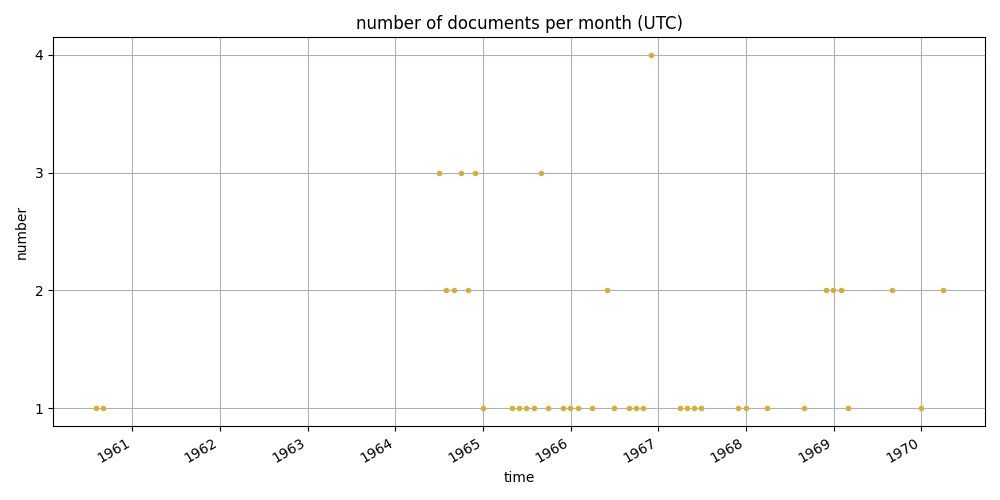
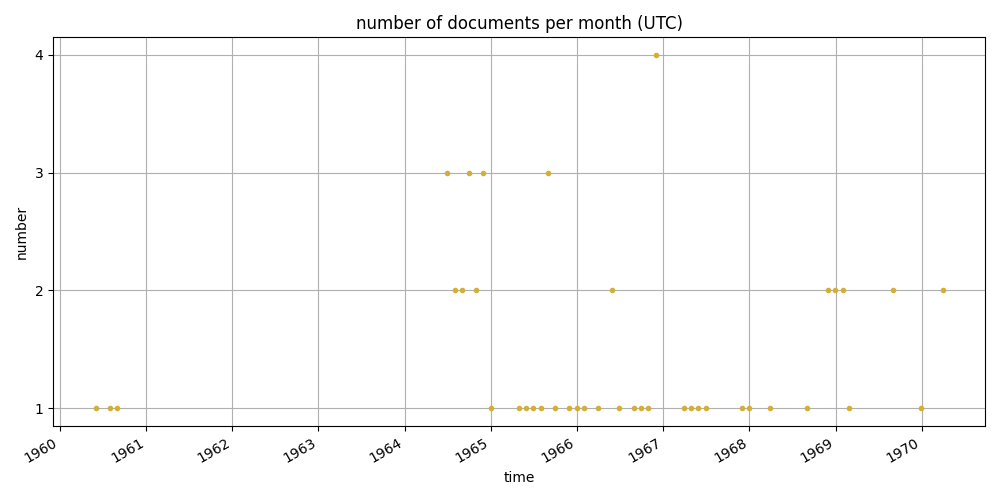
output csv written

diff --git a/metadata/md/metadata-analysis.md b/metadata/md/metadata-analysis.md
@@ -25,97 +25,98 @@ dtype: int64
 ### `df.info()`
 ```
 <class 'pandas.core.frame.DataFrame'>
-RangeIndex: 236 entries, 0 to 235
+RangeIndex: 238 entries, 0 to 237
 Data columns (total 19 columns):
  #   Column          Non-Null Count  Dtype 
 ---  ------          --------------  ----- 
- 0   img             236 non-null    int64 
- 1   lrx             236 non-null    int64 
- 2   lry             236 non-null    int64 
- 3   width           236 non-null    int64 
- 4   height          236 non-null    int64 
- 5   type            236 non-null    object
- 6   ed              236 non-null    object
- 7   doc             236 non-null    object
- 8   title           236 non-null    object
- 9   author          236 non-null    object
- 10  author-uri      236 non-null    object
- 11  notBefore-iso   236 non-null    object
- 12  notAfter-iso    236 non-null    object
- 13  place           236 non-null    object
- 14  place-uri       236 non-null    object
- 15  repository      236 non-null    object
- 16  repository-uri  236 non-null    object
- 17  collection      236 non-null    object
- 18  idno            236 non-null    object
+ 0   img             238 non-null    int64 
+ 1   lrx             238 non-null    int64 
+ 2   lry             238 non-null    int64 
+ 3   width           238 non-null    int64 
+ 4   height          238 non-null    int64 
+ 5   type            238 non-null    object
+ 6   ed              238 non-null    object
+ 7   doc             238 non-null    object
+ 8   title           238 non-null    object
+ 9   author          238 non-null    object
+ 10  author-uri      238 non-null    object
+ 11  notBefore-iso   238 non-null    object
+ 12  notAfter-iso    238 non-null    object
+ 13  place           238 non-null    object
+ 14  place-uri       238 non-null    object
+ 15  repository      238 non-null    object
+ 16  repository-uri  238 non-null    object
+ 17  collection      238 non-null    object
+ 18  idno            238 non-null    object
 dtypes: int64(5), object(14)
-memory usage: 35.2+ KB
+memory usage: 35.5+ KB
 
 ```
 ### cleaned document data
 ```
-            author                                                                     title          place
-doc                                                                                                        
-0001  Auden, W. H.  Autograph Letter Signed W. H. Auden to Hugo Kurka 1960-07-25--1969-07-25   Kirchstetten
-0002  Auden, W. H.              Autograph Letter Signed W. H. Auden to Hugo Kurka 1964-09-08   Kirchstetten
-0003  Auden, W. H.              Autograph Letter Signed W. H. Auden to Hugo Kurka 1965-05-24   Kirchstetten
-0004  Auden, W. H.              Autograph Letter Signed W. H. Auden to Hugo Kurka 1964-10-07   Kirchstetten
-0005  Auden, W. H.              Autograph Letter Signed W. H. Auden to Hugo Kurka 1967-05-09   Kirchstetten
-0006  Auden, W. H.              Autograph Letter Signed W. H. Auden to Hugo Kurka 1967-06-05   Kirchstetten
-0007  Auden, W. H.              Autograph Letter Signed W. H. Auden to Hugo Kurka 1965-07-28   Kirchstetten
-0008  Auden, W. H.              Autograph Letter Signed W. H. Auden to Hugo Kurka 1965-04-16         Berlin
-0009  Auden, W. H.              Autograph Letter Signed W. H. Auden to Hugo Kurka 1966-06-29   Kirchstetten
-0010  Auden, W. H.           Autograph Letter Signed W. H. Auden to Christa Kurka 1969-08-27   Kirchstetten
-0011  Auden, W. H.              Autograph Letter Signed W. H. Auden to Hugo Kurka 1965-06-27   Kirchstetten
-0012  Auden, W. H.              Autograph Letter Signed W. H. Auden to Hugo Kurka 1964-11-08         Berlin
-0013  Auden, W. H.              Autograph Letter Signed W. H. Auden to Hugo Kurka 1969-08-20   Kirchstetten
-0014  Auden, W. H.              Autograph Letter Signed W. H. Auden to Hugo Kurka 1964-12-08         Berlin
-0015  Auden, W. H.              Autograph Letter Signed W. H. Auden to Hugo Kurka 1964-06-25   Kirchstetten
-0016  Auden, W. H.              Autograph Letter Signed W. H. Auden to Hugo Kurka 1968-08-26   Kirchstetten
-0017  Auden, W. H.              Autograph Letter Signed W. H. Auden to Hugo Kurka 1965-08-16   Kirchstetten
-0018  Auden, W. H.              Autograph Letter Signed W. H. Auden to Hugo Kurka 1964-06-19   Kirchstetten
-0019  Auden, W. H.              Autograph Letter Signed W. H. Auden to Hugo Kurka 1966-05-04   Kirchstetten
-0020  Auden, W. H.              Autograph Letter Signed W. H. Auden to Hugo Kurka 1965-08-04   Kirchstetten
-0021  Auden, W. H.              Autograph Letter Signed W. H. Auden to Hugo Kurka 1964-09-16   Kirchstetten
-0022  Auden, W. H.              Autograph Letter Signed W. H. Auden to Hugo Kurka 1964-09-28   Kirchstetten
-0023  Auden, W. H.              Autograph Letter Signed W. H. Auden to Hugo Kurka 1966-05-20   Kirchstetten
-0024  Auden, W. H.           Autograph Letter Signed W. H. Auden to Christa Kurka 1964-11-23         Berlin
-0025  Auden, W. H.              Autograph Letter Signed W. H. Auden to Hugo Kurka 1964-07-08   Kirchstetten
-0026  Auden, W. H.              Autograph Letter Signed W. H. Auden to Hugo Kurka 1966-08-16   Kirchstetten
-0027  Auden, W. H.              Autograph Letter Signed W. H. Auden to Hugo Kurka 1964-08-21   Kirchstetten
-0028  Auden, W. H.              Autograph Letter Signed W. H. Auden to Hugo Kurka 1964-11-01         Berlin
-0029  Auden, W. H.              Autograph Letter Signed W. H. Auden to Hugo Kurka 1964-07-12   Kirchstetten
-0030  Auden, W. H.  Autograph Letter Signed W. H. Auden to Hugo Kurka 1960-08-29--1968-07-29   Kirchstetten
-0031  Auden, W. H.              Autograph Letter Signed W. H. Auden to Hugo Kurka 1965-09-23   Kirchstetten
-0032  Auden, W. H.              Autograph Letter Signed W. H. Auden to Hugo Kurka 1964-08-18   Kirchstetten
-0033  Auden, W. H.              Autograph Letter Signed W. H. Auden to Hugo Kurka 1966-01-27  New York City
-0034  Auden, W. H.              Autograph Letter Signed W. H. Auden to Hugo Kurka 1967-03-28  New York City
-0035  Auden, W. H.              Autograph Letter Signed W. H. Auden to Hugo Kurka 1965-12-07  New York City
-0036  Auden, W. H.              Autograph Letter Signed W. H. Auden to Hugo Kurka 1965-11-11  New York City
-0037  Auden, W. H.              Autograph Letter Signed W. H. Auden to Hugo Kurka 1964-11-16         Berlin
-0038  Auden, W. H.              Autograph Letter Signed W. H. Auden to Hugo Kurka 1966-11-07  New York City
-0039  Auden, W. H.              Autograph Letter Signed W. H. Auden to Hugo Kurka 1966-11-26  New York City
-0040  Auden, W. H.              Autograph Letter Signed W. H. Auden to Hugo Kurka 1966-11-14  New York City
-0041  Auden, W. H.              Autograph Letter Signed W. H. Auden to Hugo Kurka 1967-04-05  New York City
-0042  Auden, W. H.              Autograph Letter Signed W. H. Auden to Hugo Kurka 1966-11-09  New York City
-0043  Auden, W. H.              Autograph Letter Signed W. H. Auden to Hugo Kurka 1964-06-10   Kirchstetten
-0044  Auden, W. H.              Autograph Letter Signed W. H. Auden to Hugo Kurka 1965-08-30   Kirchstetten
-0045  Auden, W. H.              Autograph Letter Signed W. H. Auden to Hugo Kurka 1966-03-01  New York City
-0046  Auden, W. H.              Autograph Letter Signed W. H. Auden to Hugo Kurka 1970-03-27  New York City
-0047  Auden, W. H.              Autograph Letter Signed W. H. Auden to Hugo Kurka 1966-09-14   Kirchstetten
-0048  Auden, W. H.              Autograph Letter Signed W. H. Auden to Hugo Kurka 1967-12-24  New York City
-0049  Auden, W. H.                  Typed Letter Signed W. H. Auden to Hugo Kurka 1968-03-28  New York City
-0050  Auden, W. H.              Autograph Letter Signed W. H. Auden to Hugo Kurka 1969-01-29  New York City
-0051  Auden, W. H.              Autograph Letter Signed W. H. Auden to Hugo Kurka 1969-12-05  New York City
-0052  Auden, W. H.              Autograph Letter Signed W. H. Auden to Hugo Kurka 1968-11-24  New York City
-0053  Auden, W. H.              Autograph Letter Signed W. H. Auden to Hugo Kurka 1966-10-11         London
-0054  Auden, W. H.                  Typed Letter Signed W. H. Auden to Hugo Kurka 1969-01-11  New York City
-0055  Auden, W. H.              Autograph Letter Signed W. H. Auden to Hugo Kurka 1967-11-14  New York City
-0056  Auden, W. H.              Autograph Letter Signed W. H. Auden to Hugo Kurka 1968-12-29  New York City
-0057  Auden, W. H.              Autograph Letter Signed W. H. Auden to Hugo Kurka 1968-11-13  New York City
-0058  Auden, W. H.              Autograph Letter Signed W. H. Auden to Hugo Kurka 1968-12-13  New York City
-0059  Auden, W. H.                             Envelope W. H. Auden to Hugo Kurka 1969-02-21  New York City
-0060  Auden, W. H.              Autograph Letter Signed W. H. Auden to Hugo Kurka 1970-03-15  New York City
+                     author                                                                     title          place
+doc                                                                                                                 
+0001           Auden, W. H.  Autograph Letter Signed W. H. Auden to Hugo Kurka 1960-07-25--1969-07-25   Kirchstetten
+0002           Auden, W. H.              Autograph Letter Signed W. H. Auden to Hugo Kurka 1964-09-08   Kirchstetten
+0003           Auden, W. H.              Autograph Letter Signed W. H. Auden to Hugo Kurka 1965-05-24   Kirchstetten
+0004           Auden, W. H.              Autograph Letter Signed W. H. Auden to Hugo Kurka 1964-10-07   Kirchstetten
+0005           Auden, W. H.              Autograph Letter Signed W. H. Auden to Hugo Kurka 1967-05-09   Kirchstetten
+0006           Auden, W. H.              Autograph Letter Signed W. H. Auden to Hugo Kurka 1967-06-05   Kirchstetten
+0007           Auden, W. H.              Autograph Letter Signed W. H. Auden to Hugo Kurka 1965-07-28   Kirchstetten
+0008           Auden, W. H.              Autograph Letter Signed W. H. Auden to Hugo Kurka 1965-04-16         Berlin
+0009           Auden, W. H.              Autograph Letter Signed W. H. Auden to Hugo Kurka 1966-06-29   Kirchstetten
+0010           Auden, W. H.           Autograph Letter Signed W. H. Auden to Christa Kurka 1969-08-27   Kirchstetten
+0011           Auden, W. H.              Autograph Letter Signed W. H. Auden to Hugo Kurka 1965-06-27   Kirchstetten
+0012           Auden, W. H.              Autograph Letter Signed W. H. Auden to Hugo Kurka 1964-11-08         Berlin
+0013           Auden, W. H.              Autograph Letter Signed W. H. Auden to Hugo Kurka 1969-08-20   Kirchstetten
+0014           Auden, W. H.              Autograph Letter Signed W. H. Auden to Hugo Kurka 1964-12-08         Berlin
+0015           Auden, W. H.              Autograph Letter Signed W. H. Auden to Hugo Kurka 1964-06-25   Kirchstetten
+0016           Auden, W. H.              Autograph Letter Signed W. H. Auden to Hugo Kurka 1968-08-26   Kirchstetten
+0017           Auden, W. H.              Autograph Letter Signed W. H. Auden to Hugo Kurka 1965-08-16   Kirchstetten
+0018           Auden, W. H.              Autograph Letter Signed W. H. Auden to Hugo Kurka 1964-06-19   Kirchstetten
+0019           Auden, W. H.              Autograph Letter Signed W. H. Auden to Hugo Kurka 1966-05-04   Kirchstetten
+0020           Auden, W. H.              Autograph Letter Signed W. H. Auden to Hugo Kurka 1965-08-04   Kirchstetten
+0021           Auden, W. H.              Autograph Letter Signed W. H. Auden to Hugo Kurka 1964-09-16   Kirchstetten
+0022           Auden, W. H.              Autograph Letter Signed W. H. Auden to Hugo Kurka 1964-09-28   Kirchstetten
+0023           Auden, W. H.              Autograph Letter Signed W. H. Auden to Hugo Kurka 1966-05-20   Kirchstetten
+0024           Auden, W. H.           Autograph Letter Signed W. H. Auden to Christa Kurka 1964-11-23         Berlin
+0025           Auden, W. H.              Autograph Letter Signed W. H. Auden to Hugo Kurka 1964-07-08   Kirchstetten
+0026           Auden, W. H.              Autograph Letter Signed W. H. Auden to Hugo Kurka 1966-08-16   Kirchstetten
+0027           Auden, W. H.              Autograph Letter Signed W. H. Auden to Hugo Kurka 1964-08-21   Kirchstetten
+0028           Auden, W. H.              Autograph Letter Signed W. H. Auden to Hugo Kurka 1964-11-01         Berlin
+0029           Auden, W. H.              Autograph Letter Signed W. H. Auden to Hugo Kurka 1964-07-12   Kirchstetten
+0030           Auden, W. H.  Autograph Letter Signed W. H. Auden to Hugo Kurka 1960-08-29--1968-07-29   Kirchstetten
+0031           Auden, W. H.              Autograph Letter Signed W. H. Auden to Hugo Kurka 1965-09-23   Kirchstetten
+0032           Auden, W. H.              Autograph Letter Signed W. H. Auden to Hugo Kurka 1964-08-18   Kirchstetten
+0033           Auden, W. H.              Autograph Letter Signed W. H. Auden to Hugo Kurka 1966-01-27  New York City
+0034           Auden, W. H.              Autograph Letter Signed W. H. Auden to Hugo Kurka 1967-03-28  New York City
+0035           Auden, W. H.              Autograph Letter Signed W. H. Auden to Hugo Kurka 1965-12-07  New York City
+0036           Auden, W. H.              Autograph Letter Signed W. H. Auden to Hugo Kurka 1965-11-11  New York City
+0037           Auden, W. H.              Autograph Letter Signed W. H. Auden to Hugo Kurka 1964-11-16         Berlin
+0038           Auden, W. H.              Autograph Letter Signed W. H. Auden to Hugo Kurka 1966-11-07  New York City
+0039           Auden, W. H.              Autograph Letter Signed W. H. Auden to Hugo Kurka 1966-11-26  New York City
+0040           Auden, W. H.              Autograph Letter Signed W. H. Auden to Hugo Kurka 1966-11-14  New York City
+0041           Auden, W. H.              Autograph Letter Signed W. H. Auden to Hugo Kurka 1967-04-05  New York City
+0042           Auden, W. H.              Autograph Letter Signed W. H. Auden to Hugo Kurka 1966-11-09  New York City
+0043           Auden, W. H.              Autograph Letter Signed W. H. Auden to Hugo Kurka 1964-06-10   Kirchstetten
+0044           Auden, W. H.              Autograph Letter Signed W. H. Auden to Hugo Kurka 1965-08-30   Kirchstetten
+0045           Auden, W. H.              Autograph Letter Signed W. H. Auden to Hugo Kurka 1966-03-01  New York City
+0046           Auden, W. H.              Autograph Letter Signed W. H. Auden to Hugo Kurka 1970-03-27  New York City
+0047           Auden, W. H.              Autograph Letter Signed W. H. Auden to Hugo Kurka 1966-09-14   Kirchstetten
+0048           Auden, W. H.              Autograph Letter Signed W. H. Auden to Hugo Kurka 1967-12-24  New York City
+0049           Auden, W. H.                  Typed Letter Signed W. H. Auden to Hugo Kurka 1968-03-28  New York City
+0050           Auden, W. H.              Autograph Letter Signed W. H. Auden to Hugo Kurka 1969-01-29  New York City
+0051           Auden, W. H.              Autograph Letter Signed W. H. Auden to Hugo Kurka 1969-12-05  New York City
+0052           Auden, W. H.              Autograph Letter Signed W. H. Auden to Hugo Kurka 1968-11-24  New York City
+0053           Auden, W. H.              Autograph Letter Signed W. H. Auden to Hugo Kurka 1966-10-11         London
+0054           Auden, W. H.                  Typed Letter Signed W. H. Auden to Hugo Kurka 1969-01-11  New York City
+0055           Auden, W. H.              Autograph Letter Signed W. H. Auden to Hugo Kurka 1967-11-14  New York City
+0056           Auden, W. H.              Autograph Letter Signed W. H. Auden to Hugo Kurka 1968-12-29  New York City
+0057           Auden, W. H.              Autograph Letter Signed W. H. Auden to Hugo Kurka 1968-11-13  New York City
+0058           Auden, W. H.              Autograph Letter Signed W. H. Auden to Hugo Kurka 1968-12-13  New York City
+0059           Auden, W. H.                             Envelope W. H. Auden to Hugo Kurka 1969-02-21  New York City
+0060           Auden, W. H.              Autograph Letter Signed W. H. Auden to Hugo Kurka 1970-03-15  New York City
+0061  Süddeutscher Rundfunk                 Printed Card Süddeutscher Rundfunk 1960-05-20--1961-05-20      Stuttgart
 ```
 ### scatter plot
 
